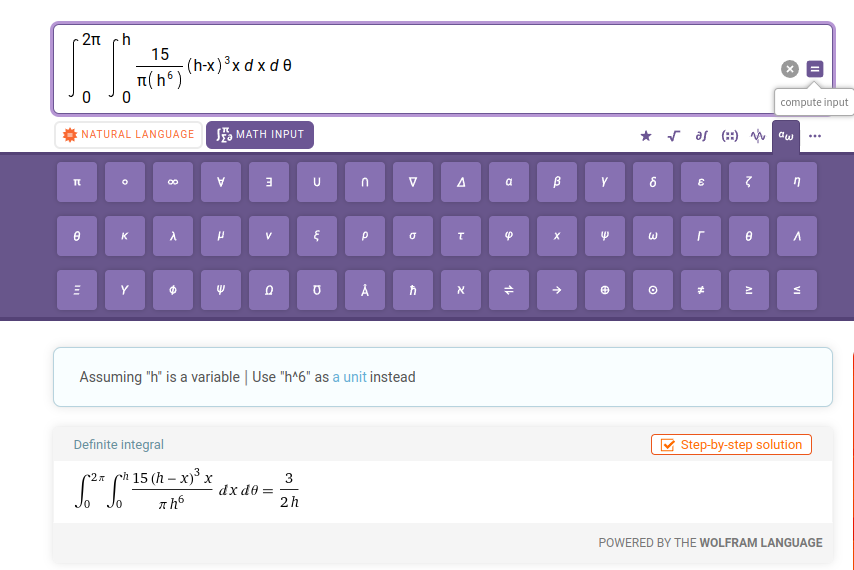
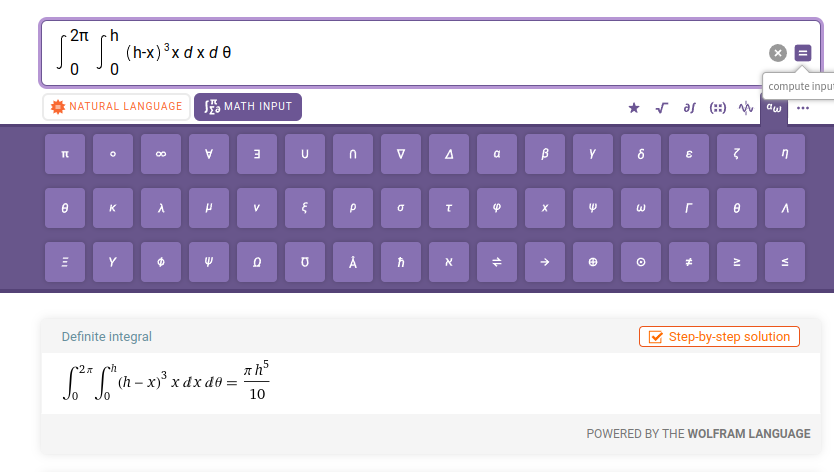
caching densities done parallel with -ofast

diff --git a/src/main.cpp b/src/main.cpp
@@ -15,7 +15,8 @@ const int particle_num = 3600;
 const int particle_mass = 1;
 const int particle_radius = 5;
 const float collision_damping = 0.75f;
-double smoothing_radius = 50.f;
+const float pi = 3.141f;
+double smoothing_radius = 300.f;
 const float dt = 1.f/60.f;
 const float gravity = 9.81; //ms^-2
 
@@ -23,10 +24,10 @@ struct particle{
     sf::CircleShape droplet{particle_radius};
     sf::Vector2f position{0.f, 0.f};
     sf::Vector2f velocity{0.f, 0.f};
+    float local_density;
 };
 
 vector<particle> particles(particle_num);
-
 
 void placeParticles(){
     int particlesPerRow = sqrt(particle_num);
@@ -35,6 +36,7 @@ void placeParticles(){
     for (int i = 0; i < particle_num; i++){
         particles[i].position.x = (i % particlesPerRow + particlesPerRow / 5.f + 0.5f) * spacing;
         particles[i].position.y = (i / particlesPerRow + particlesPerColumn / 5.f + 0.5f) * spacing;
+        particles[i].droplet.setFillColor(sf::Color::Cyan); // Remove after resolveColor is developed
     }
 }
 
@@ -44,25 +46,19 @@ void resolveGravity(int i){
 }
 
 float smoothingKernel(double dst){
-    float volume = 3/(2 * smoothing_radius);  
+    float volume = pi * (float)pow(smoothing_radius, 5.0)/10;  
     float value = max((float)0.0, (float)pow(smoothing_radius - dst, 3.0));
     return value/volume;
 }
 
-/*
-float calculateDensity(sf::Vector2f sample_point){
-    float density = 0;
-    for (auto &particlet: particles){
-        float dst = sqrt(pow((double)(particlet.position.x - sample_point.x), 2.0) + pow((double)(particlet.position.y - sample_point.y), 2.0));
-        float influence = smoothingKernel(dst);
-        density += particle_mass * influence; 
-    }
-    return density;
+float smoothingKernelDerivative(double dst){
+    if (dst >= smoothing_radius) return 0.0;
+    return ( (float) -30/(pi * pow(smoothing_radius, 5)) * pow(smoothing_radius - dst, 2));
 }
-*/
+
 float calculateDensity(sf::Vector2f sample_point){
     float density = 0;
-    //#pragma omp parallel for num_threads(5) 
+    #pragma omp parallel for num_threads(9) 
     for (int j =0; j < particle_num; j++){
         float dst = sqrt(pow((double)(particles[j].position.x - sample_point.x), 2.0) + pow((double)(particles[j].position.y - sample_point.y), 2.0));
         float influence = smoothingKernel(dst);
@@ -81,7 +77,19 @@ void resolveBoundingBox(int i, sf::Vector2u window_size){
         particles[i].velocity.y *= -1 * collision_damping;   
     }
 }
-//shape.setFillColor(sf::Color::Green);
+
+/*
+TO-DO!
+void resolveColor(int i){
+    if (abs(particles[i].velocity.x + particles[i].velocity.y) > 50){
+        float offset = particles[i].velocity.x + particles[i].velocity.y - 50;
+        particles[i].droplet.setFillColor(sf::Color(2*offset , 2*offset, 250-2*offset));
+    }
+    else{
+        float offset = 50 - abs(particles[i].velocity.x) - abs(particles[i].velocity.y);
+        particles[i].droplet.setFillColor(sf::Color(2*offset, 2*offset, 250-2*offset));
+    }   
+}*/
 
 int main()
 {
@@ -91,7 +99,8 @@ int main()
     sf::View view = window.getDefaultView();
 
     placeParticles();
-
+    //cout << calculateDensity(particles[1800-30].position); show that this makes the density roughly constant
+    
     while (window.isOpen())
     {
         sf::Event event;
@@ -114,7 +123,9 @@ int main()
             // window bounding box
             resolveBoundingBox(i, window_size);
             //calculate densities
-            calculateDensity(particles[i].position);
+            particles[i].local_density = calculateDensity(particles[i].position);
+            //resolve colour
+            //resolveColor(i); add at the end
             //set particle position with radius offset 
             particles[i].droplet.setPosition(particles[i].position.x-particle_radius, particles[i].position.y-particle_radius);
 

diff --git a/Write_up/development.tex b/Write_up/development.tex
@@ -1,5 +1,5 @@
  \documentclass[write-up.tex]{subfiles}
  \begin{document}
 \section{Development and Testing}
-%Talk about how the equation for the smoothing kernel changed to remove 15/(pi h^6) cuz values were too small
+%Talk about how the equation for the smoothing kernel changed to remove 15/(pi h^6) cuz values were too small, redo volume and derivatives as well as do some tweaking to find optimum values.
  \end{document}
